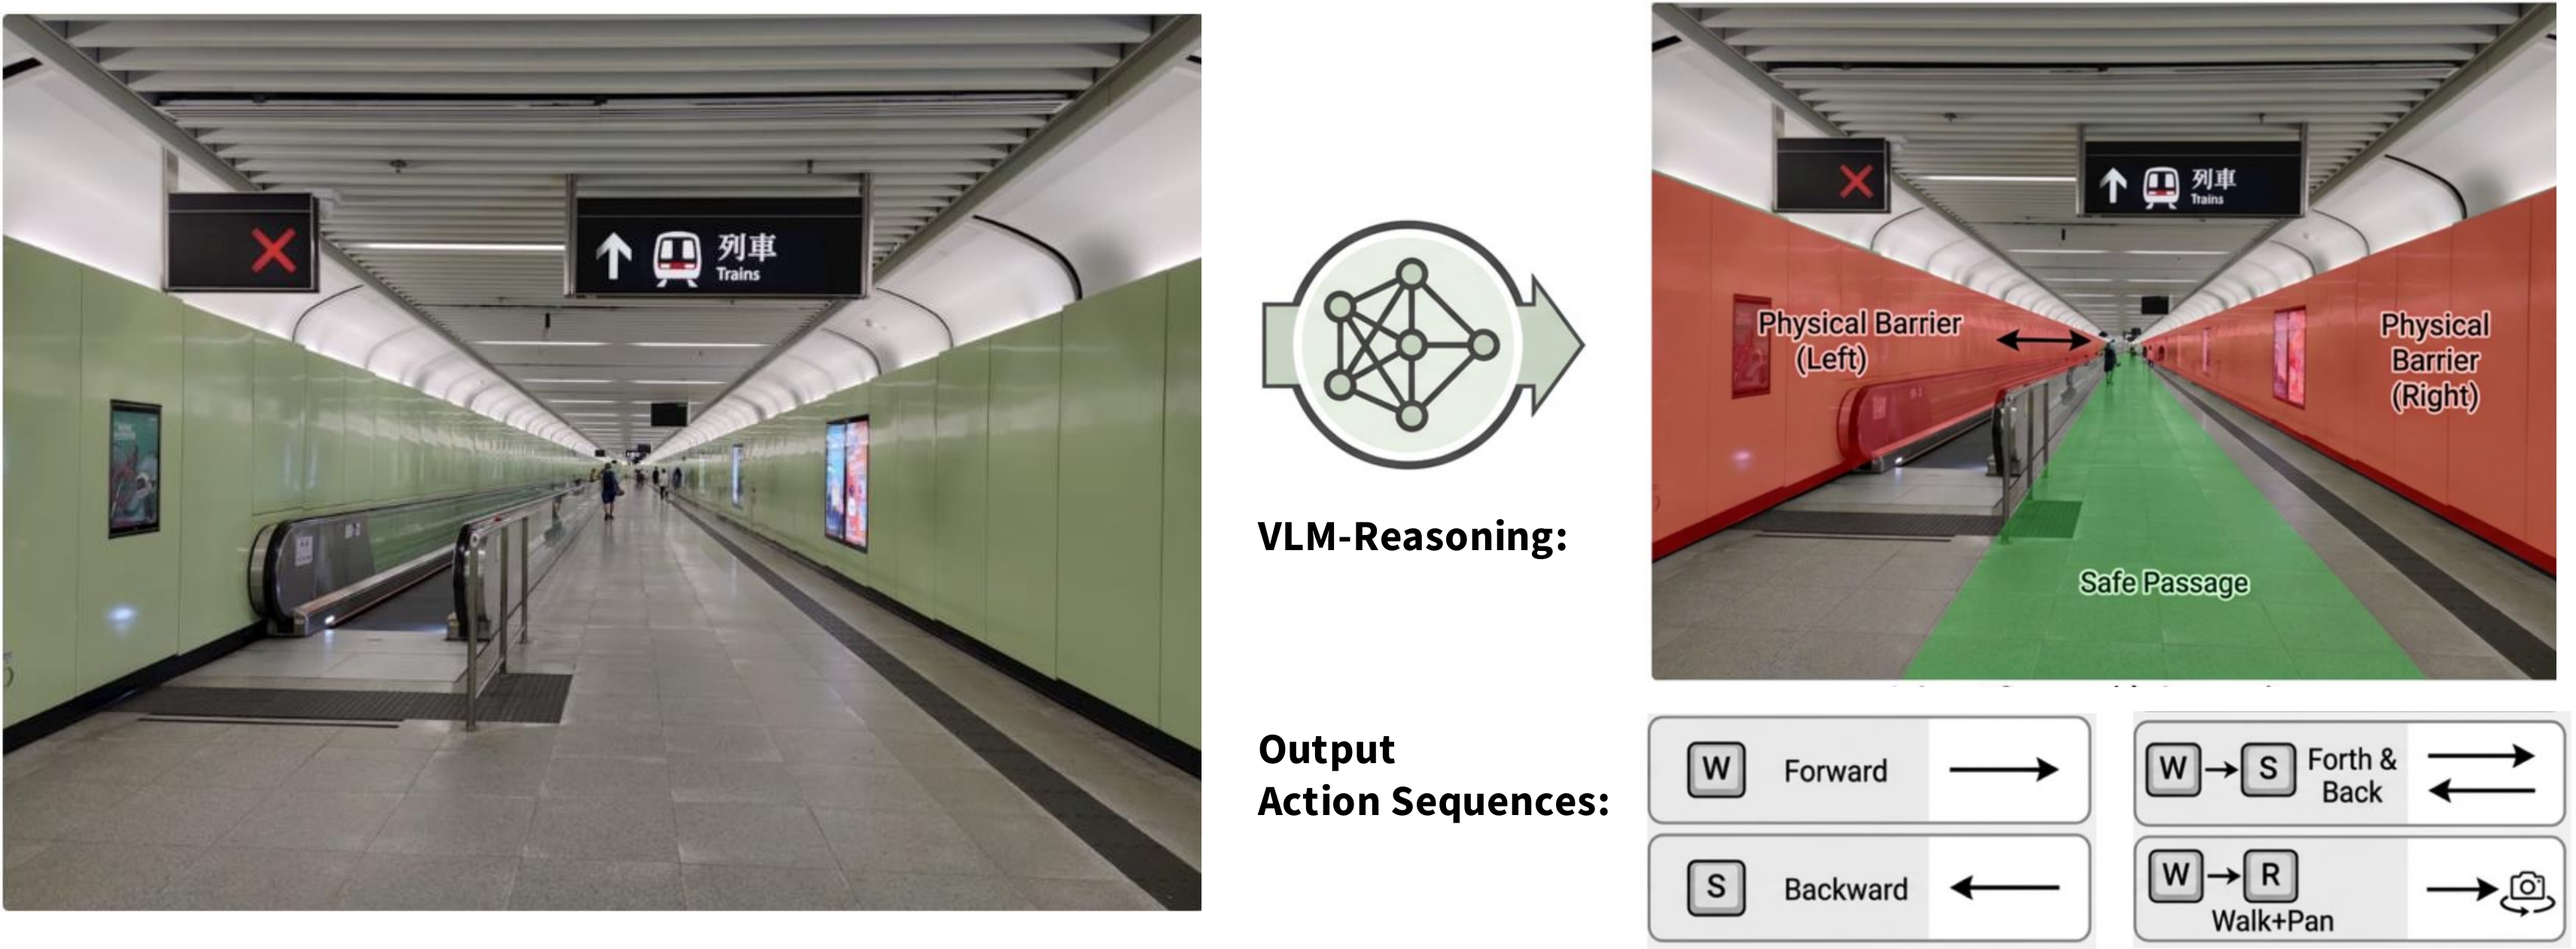
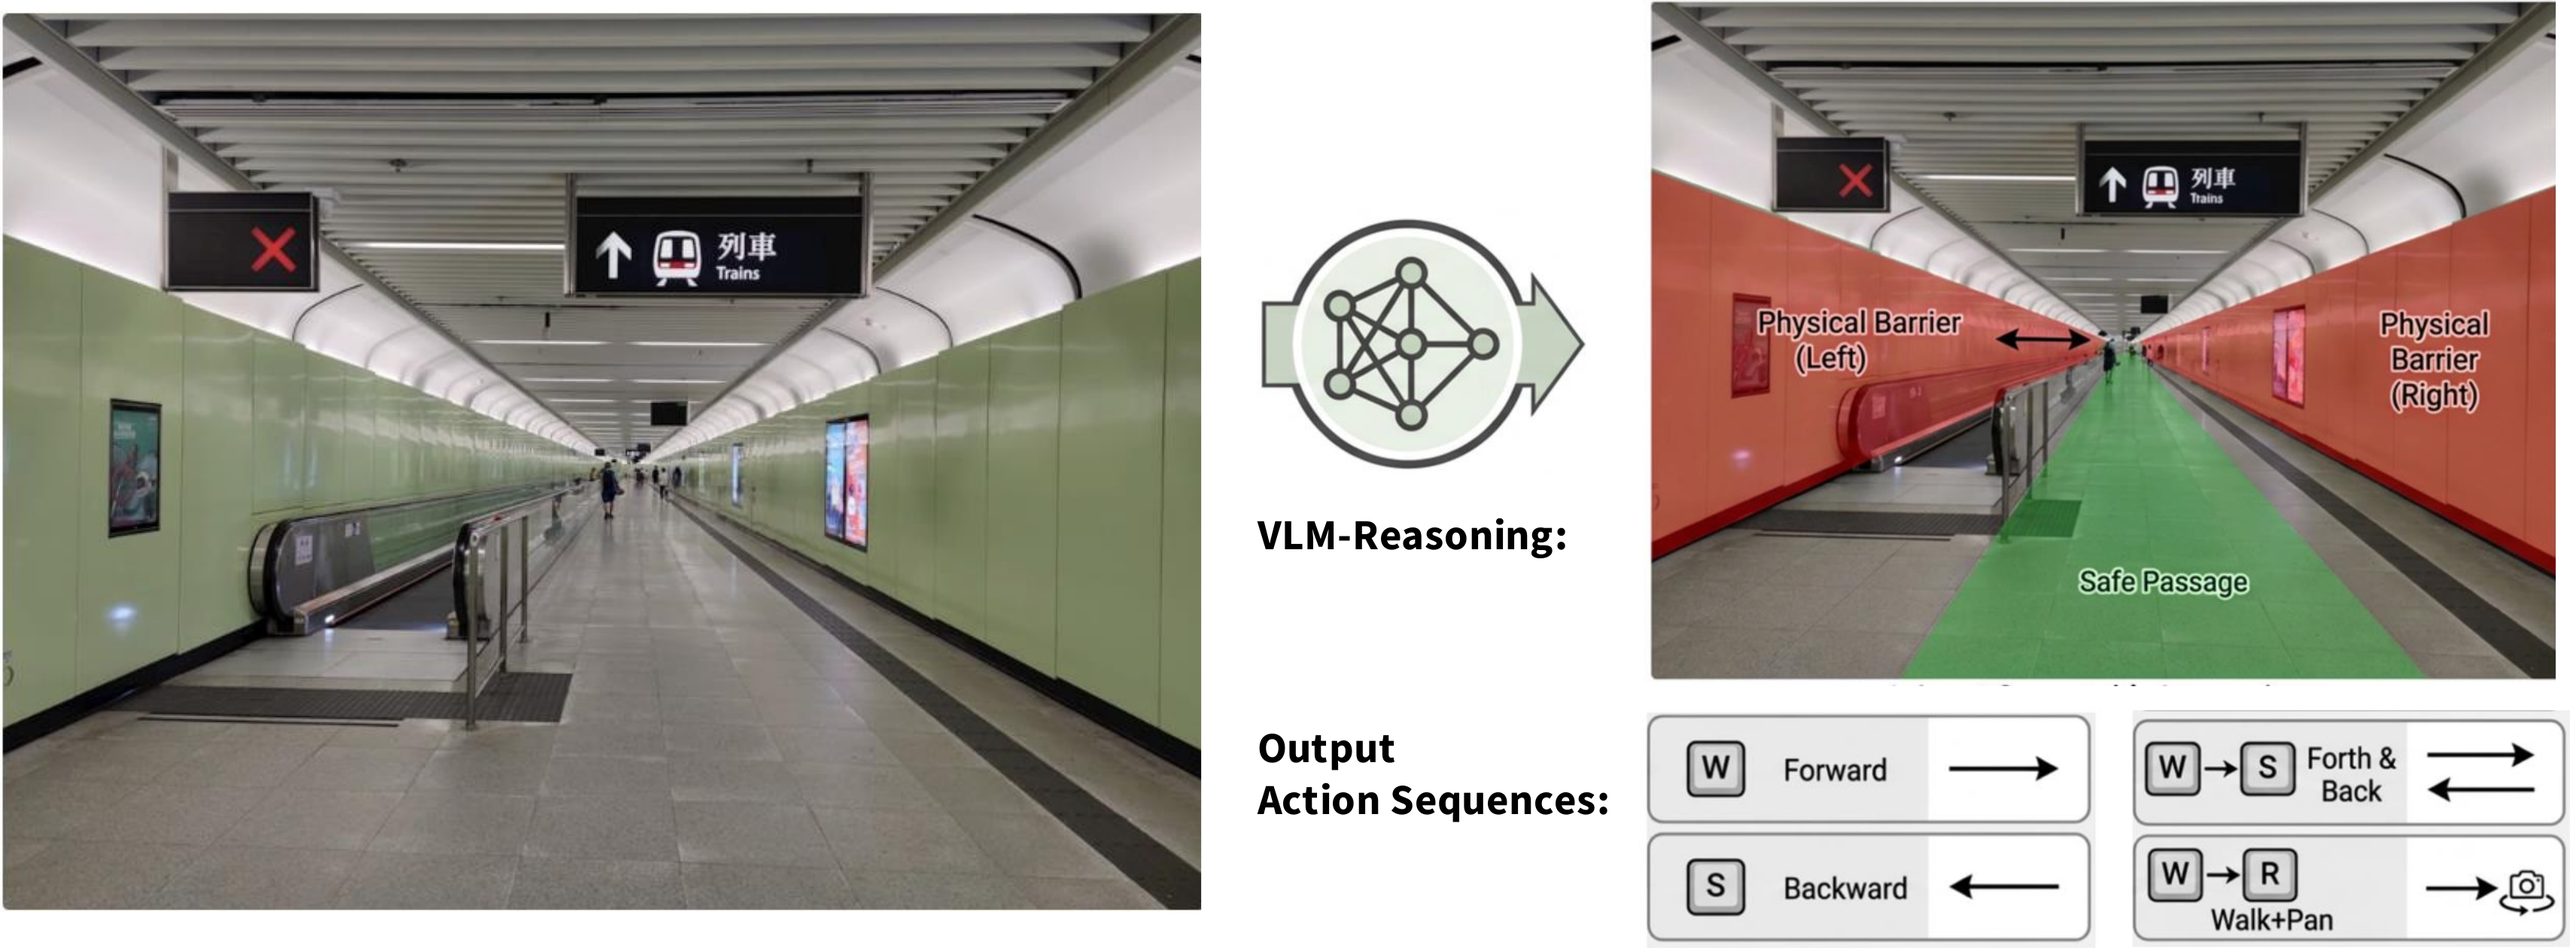
Fix Fig.4 white borders and remove max-width constraint

diff --git a/index.html b/index.html
@@ -284,7 +284,7 @@
 
           <p>Combined with 100 test images, this yields approximately <strong>500 standardized evaluation cases</strong>. A VLM-based scene-aware filtering step ensures only physically plausible actions are assigned to each image.</p>
 
-          <figure class="image" style="margin: 2rem auto; max-width: 800px;">
+          <figure class="image" style="margin: 2rem auto;">
             <img src="static/images/vlm_traj.png" alt="Context-aware action selection using VLM reasoning" loading="lazy" style="border-radius: var(--border-radius-lg); box-shadow: var(--shadow-lg); width: 100%;">
             <figcaption class="has-text-centered has-text-grey is-size-7" style="margin-top: 0.75rem;"><strong>Fig. 4:</strong> Context-aware action selection. A VLM analyzes the initial image to identify physical constraints and selects plausible action sequences from the predefined library.</figcaption>
           </figure>
